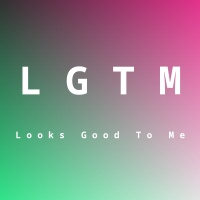
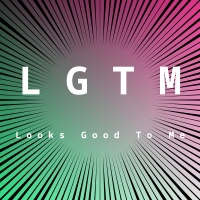
feat: 集中線対応

Changed region(s): [[0.0, 0.0, 1.0, 1.0], [0.99, 0.99, 1.0, 1.0]]

diff --git a/concentration_drawer.go b/concentration_drawer.go
@@ -1,0 +1,184 @@
+package lgtm
+
+import (
+	"fmt"
+	"image"
+	"image/color"
+	"image/draw"
+	"image/gif"
+	"math"
+	"math/rand"
+	"os"
+	"path/filepath"
+	"strings"
+	"time"
+
+	"github.com/disintegration/imaging"
+	"github.com/fogleman/gg"
+)
+
+type ConcentrationLinesDrawer struct {
+	InputPath  string
+	OutputPath string
+	LineCount  int         // 集中線の本数
+	LineColor  color.Color // 線の色
+}
+
+func NewConcentrationLinesDrawer(inputPath, outputPath string) Drawer {
+	return &ConcentrationLinesDrawer{
+		InputPath:  inputPath,
+		OutputPath: outputPath,
+		LineCount:  120,         // デフォルトの線の本数（密度を上げる）
+		LineColor:  color.Black, // デフォルトは黒
+	}
+}
+
+func (c *ConcentrationLinesDrawer) Draw() error {
+	ext, err := c.extension(c.InputPath)
+	if err != nil {
+		return err
+	}
+
+	if ext == "gif" {
+		return c.drawOnGIF(c.InputPath, c.OutputPath)
+	}
+	return c.drawOnImage(c.InputPath, c.OutputPath, ext)
+}
+
+func (c *ConcentrationLinesDrawer) extension(path string) (string, error) {
+	f, err := os.Open(path)
+	if err != nil {
+		return "", err
+	}
+	defer f.Close()
+
+	_, format, err := image.DecodeConfig(f)
+	if err != nil {
+		return "", err
+	}
+
+	return format, nil
+}
+
+func (c *ConcentrationLinesDrawer) newFilename(inputPath, outputPath, ext string) string {
+	if outputPath != "" {
+		return outputPath
+	}
+	filename := filepath.Base(inputPath)
+	name := strings.Split(filename, ".")[0]
+	suffix := "concentration"
+	return filepath.Join(".", fmt.Sprintf("%s-%s.%s", name, suffix, ext))
+}
+
+func (c *ConcentrationLinesDrawer) drawOnGIF(inputPath, outputPath string) error {
+	file, err := os.Open(inputPath)
+	if err != nil {
+		return err
+	}
+	defer file.Close()
+
+	orgGif, err := gif.DecodeAll(file)
+	if err != nil {
+		return err
+	}
+
+	newImage := make([]*image.Paletted, 0, len(orgGif.Image))
+	for _, v := range orgGif.Image {
+		v := v
+		img := c.drawConcentrationLines(v)
+
+		palettedImage := &image.Paletted{
+			Pix:     v.Pix,
+			Stride:  v.Stride,
+			Rect:    v.Bounds(),
+			Palette: v.Palette,
+		}
+		draw.Draw(palettedImage, palettedImage.Rect, img, img.Bounds().Min, draw.Over)
+		newImage = append(newImage, palettedImage)
+	}
+	orgGif.Image = newImage
+
+	out, err := os.Create(c.newFilename(inputPath, outputPath, "gif"))
+	if err != nil {
+		return err
+	}
+	defer out.Close()
+
+	if err := gif.EncodeAll(out, orgGif); err != nil {
+		return err
+	}
+
+	return nil
+}
+
+func (c *ConcentrationLinesDrawer) drawOnImage(inputPath, outputPath, ext string) error {
+	img, err := imaging.Open(inputPath, imaging.AutoOrientation(true))
+	if err != nil {
+		return err
+	}
+
+	result := c.drawConcentrationLines(img)
+
+	if err := imaging.Save(result, c.newFilename(inputPath, outputPath, ext)); err != nil {
+		return err
+	}
+
+	return nil
+}
+
+func (c *ConcentrationLinesDrawer) drawConcentrationLines(img image.Image) image.Image {
+	imgWidth := img.Bounds().Dx()
+	imgHeight := img.Bounds().Dy()
+	dc := gg.NewContext(imgWidth, imgHeight)
+	dc.DrawImage(img, 0, 0)
+
+	// 画像の中心点
+	centerX := float64(imgWidth) / 2
+	centerY := float64(imgHeight) / 2
+
+	// 画像の対角線の長さ（線が画像全体をカバーするため）
+	maxDistance := math.Sqrt(float64(imgWidth*imgWidth + imgHeight*imgHeight))
+
+	// ランダムシードを初期化
+	rng := rand.New(rand.NewSource(time.Now().UnixNano()))
+
+	angleStep := 2 * math.Pi / float64(c.LineCount)
+
+	for i := 0; i < c.LineCount; i++ {
+		angle := float64(i) * angleStep
+
+		// 外側は必ず画像の端から開始（maxDistance）
+		outerDistance := maxDistance * 0.6 // 画像の端
+		outerX := centerX + math.Cos(angle)*outerDistance
+		outerY := centerY + math.Sin(angle)*outerDistance
+
+		// 内側の尖った点（中心に近い）- ランダム幅をさらに小さく
+		innerDistanceRatio := 0.18 + rng.Float64()*0.02 // 0.18 ~ 0.20 (幅をさらに狭く)
+		innerDistance := maxDistance * innerDistanceRatio
+		innerX := centerX + math.Cos(angle)*innerDistance
+		innerY := centerY + math.Sin(angle)*innerDistance
+
+		// 三角形の幅を完全にランダムに設定（細くする）
+		minWidth := math.Min(float64(imgWidth), float64(imgHeight)) * 0.003
+		maxWidth := math.Min(float64(imgWidth), float64(imgHeight)) * 0.015
+		baseWidth := minWidth + rng.Float64()*(maxWidth-minWidth)
+
+		// 外側の2点を計算（角度に垂直な方向）
+		perpAngle := angle + math.Pi/2
+		outerLeft1X := outerX + math.Cos(perpAngle)*baseWidth
+		outerLeft1Y := outerY + math.Sin(perpAngle)*baseWidth
+		outerLeft2X := outerX - math.Cos(perpAngle)*baseWidth
+		outerLeft2Y := outerY - math.Sin(perpAngle)*baseWidth
+
+		// 黒い三角形を描画
+		dc.SetColor(c.LineColor)
+		dc.NewSubPath()
+		dc.MoveTo(innerX, innerY)
+		dc.LineTo(outerLeft1X, outerLeft1Y)
+		dc.LineTo(outerLeft2X, outerLeft2Y)
+		dc.ClosePath()
+		dc.Fill()
+	}
+
+	return dc.Image()
+}

diff --git a/cmd/lgtm/main.go b/cmd/lgtm/main.go
@@ -10,31 +10,55 @@ import (
 )
 
 var (
-	color         string
-	gopher        bool
-	inputPath     string
-	outputPath    string
-	customText    string
-	customSubText string
+	color              string
+	gopher             bool
+	concentrationLines bool
+	inputPath          string
+	outputPath         string
+	customText         string
+	customSubText      string
 )
 
 var rootCmd = &cobra.Command{
 	Use:   "lgtm [flags]",
 	Short: "Embed custom text or gopher image on images",
 	Long: `LGTM is a CLI tool that embeds custom text on images with customizable colors.
-It can also embed a gopher image and outputs the result as a JPEG file.
+It can also embed a gopher image or concentration lines and outputs the result as a JPEG file.
 By default, it embeds "LGTM" as main text and "Looks Good To Me" as sub-text.
 You can customize both using the --text and --sub-text flags.`,
 	Args: cobra.NoArgs,
 	Run: func(cmd *cobra.Command, args []string) {
-		if gopher {
-			d := lgtm.NewGopherDrawer(inputPath, outputPath)
+		currentInput := inputPath
+		tempOutput := ""
+
+		// 集中線を先に描画（指定されている場合）
+		if concentrationLines {
+			if outputPath == "" {
+				tempOutput = inputPath + ".tmp.jpg"
+			} else {
+				tempOutput = outputPath + ".tmp.jpg"
+			}
+			d := lgtm.NewConcentrationLinesDrawer(currentInput, tempOutput)
 			if err := d.Draw(); err != nil {
 				log.Fatal(err)
+			}
+			currentInput = tempOutput
+		}
+
+		// Gopherモードの場合
+		if gopher {
+			d := lgtm.NewGopherDrawer(currentInput, outputPath)
+			if err := d.Draw(); err != nil {
+				log.Fatal(err)
+			}
+			// 一時ファイルを削除
+			if tempOutput != "" {
+				os.Remove(tempOutput)
 			}
 			return
 		}
 
+		// テキストを描画（デフォルト動作または集中線の後に描画）
 		textColor := lgtm.TextColorWhite
 		if color == "black" {
 			textColor = lgtm.TextColorBlack
@@ -54,9 +78,14 @@ You can customize both using the --text and --sub-text flags.`,
 		main := lgtm.NewMainText(mainText, textColor)
 		sub := lgtm.NewSubText(subText, textColor)
 
-		d := lgtm.NewTextDrawer(main, sub, inputPath, outputPath)
+		d := lgtm.NewTextDrawer(main, sub, currentInput, outputPath)
 		if err := d.Draw(); err != nil {
 			log.Fatal(err)
+		}
+
+		// 一時ファイルを削除
+		if tempOutput != "" {
+			os.Remove(tempOutput)
 		}
 	},
 }
@@ -72,6 +101,7 @@ func init() {
 	rootCmd.Flags().StringVarP(&customSubText, "sub-text", "s", "", "custom sub-text to embed (optional, default: 'Looks Good To Me')")
 	rootCmd.Flags().StringVarP(&color, "color", "c", "white", "text color: 'white' or 'black' (optional)")
 	rootCmd.Flags().BoolVar(&gopher, "gopher", false, "embed gopher image instead of text (optional)")
+	rootCmd.Flags().BoolVar(&concentrationLines, "conc", false, "add concentration lines to the image (optional)")
 }
 
 func main() {

diff --git a/README.md b/README.md
@@ -25,7 +25,7 @@ go get github.com/tMinamiii/lgtm
 lgtm --help
 
 LGTM is a CLI tool that embeds custom text on images with customizable colors.
-It can also embed a gopher image and outputs the result as a JPEG file.
+It can also embed a gopher image or concentration lines and outputs the result as a JPEG file.
 By default, it embeds "LGTM" as main text and "Looks Good To Me" as sub-text.
 You can customize both using the --text and --sub-text flags.
 
@@ -33,13 +33,14 @@ Usage:
   lgtm [flags]
 
 Flags:
-  -c, --color string      text color: 'white' or 'black' (optional) (default "white")
-      --gopher            embed gopher image instead of text (optional)
-  -h, --help              help for lgtm
-  -i, --input string      input image path (required)
-  -o, --output string     output file path (optional, default: current directory with auto-generated filename)
-  -s, --sub-text string   custom sub-text to embed (optional, default: 'Looks Good To Me')
-  -t, --text string       custom text to embed (optional, default: 'LGTM')
+  -c, --color string          text color: 'white' or 'black' (optional) (default "white")
+      --concentration-lines   add concentration lines to the image (optional)
+      --gopher                embed gopher image instead of text (optional)
+  -h, --help                  help for lgtm
+  -i, --input string          input image path (required)
+  -o, --output string         output file path (optional, default: current directory with auto-generated filename)
+  -s, --sub-text string       custom sub-text to embed (optional, default: 'Looks Good To Me')
+  -t, --text string           custom text to embed (optional, default: 'LGTM')
 ```
 
 #### CLI Examples
@@ -67,6 +68,9 @@ lgtm -i image.jpeg -o output.jpg -t "My Text" -s "My Subtitle"
 
 # Gopher mode
 lgtm -i image.jpeg --gopher
+
+# Concentration lines mode (adds manga-style concentration lines)
+lgtm -i image.jpeg --concentration-lines
 ```
 
 ### Go Library
@@ -86,19 +90,26 @@ func main() {
     subText := lgtm.NewSubText("World", lgtm.TextColorWhite)
     drawer := lgtm.NewTextDrawer(mainText, subText, "input.jpg", "output.jpg")
     if err := drawer.Draw(); err != nil {
-        panic(err)
-    }
-
     // Gopher mode
     gopherDrawer := lgtm.NewGopherDrawer("input.jpg", "output-gopher.jpg")
     if err := gopherDrawer.Draw(); err != nil {
         panic(err)
     }
-}
-```
 
-#### Available Types and Functions
-
+    // Concentration lines mode
+    concentrationDrawer := lgtm.NewConcentrationLinesDrawer("input.jpg", "output-concentration.jpg")
+    if err := concentrationDrawer.Draw(); err != nil {
+        panic(err)
+    }
+}   if err := gopherDrawer.Draw(); err != nil {
+        panic(err)
+- `NewMainText(text string, color TextColor) *Text` - Creates main text with specified color
+- `NewSubText(text string, color TextColor) *Text` - Creates sub-text with specified color
+- `NewTextDrawer(main, sub *Text, inputPath, outputPath string) Drawer` - Creates text drawer
+- `NewGopherDrawer(inputPath, outputPath string) Drawer` - Creates gopher drawer
+- `NewConcentrationLinesDrawer(inputPath, outputPath string) Drawer` - Creates concentration lines drawer
+- `TextColorWhite` and `TextColorBlack` - Available text colors
+- `DefaultMainText` and `DefaultSubText` - Default text constants
 - `NewMainText(text string, color TextColor) *Text` - Creates main text with specified color
 - `NewSubText(text string, color TextColor) *Text` - Creates sub-text with specified color
 - `NewTextDrawer(main, sub *Text, inputPath, outputPath string) Drawer` - Creates text drawer
